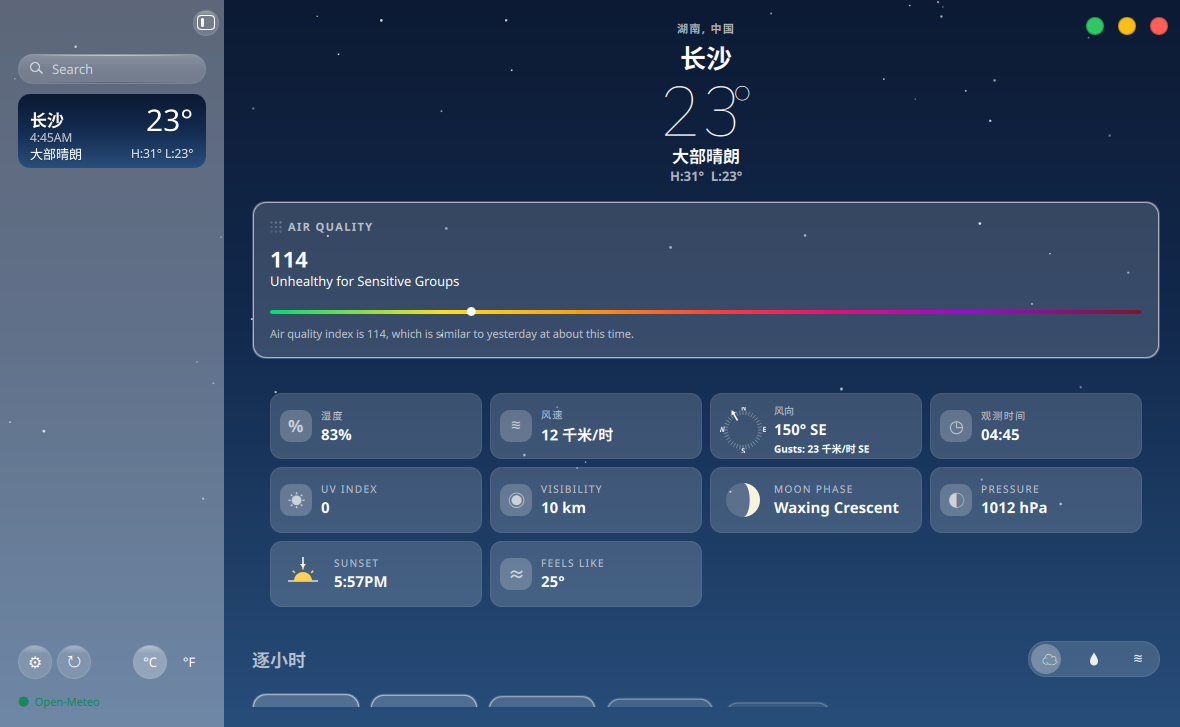
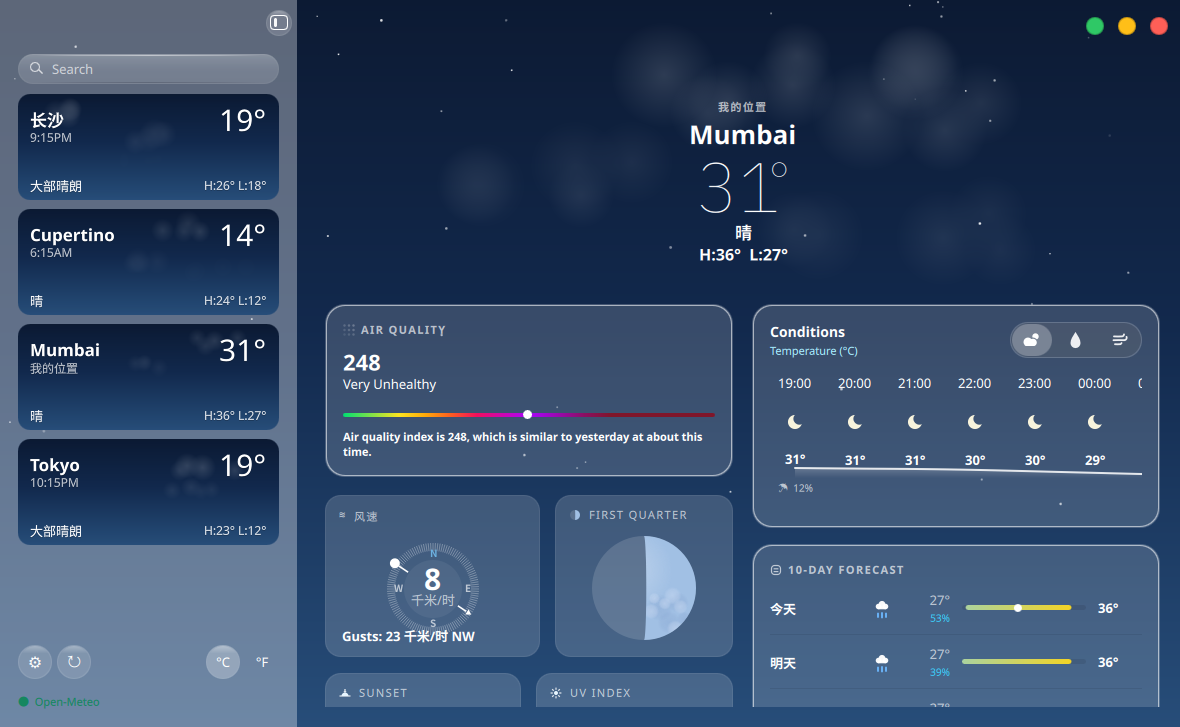
docs: round 66 进度与截图

diff --git a/docs/ui-weather/LEDGER.md b/docs/ui-weather/LEDGER.md
@@ -4,6 +4,9 @@
 参考实测色（814×498 主图采样）：天空 `#2961a7→#1469bc→#538ec9`（上→下，含云照片）；Conditions 卡 `#0057b2`；hero 文本 `#ffffff`；10天条渐变 青→黄→橙。
 
 ## 已改
+- **侧栏城市卡高/缝随侧栏 297 校准重算：74/6 → 106/9（本轮，前端，零 Go/C++/shared 改动，巡检轮新发现）**：卡高 74/缝 6 早年按 tile-sidebar ÷2.1 口径折算（当时侧栏宽 209）；上一轮侧栏校准 297 后卡高未跟改——本轮 Pillow 直测 ref-main 侧栏卡 pitch 81px@814（卡顶 y=81/162/243/324/405，亮卡跳变沿）、卡高 ~75、缝 ~6，×1.4503 → 卡高 ~109/缝 ~8.7。`apps/weather/qml/Main.qml:1138` delegate `implicitHeight: 74→106`、`:1116` savedLocations `spacing: 6→9`（两处注释标明实测依据；卡内布局 top 行+副行+bottom 锚定行，加高自然呼吸、零内部改动，字号 17/30 系既有 ref-main 口径不动）。
+  **实测**（本轮二进制截图 tmp/shots/verify-1792331216.png 过体检闸 ✅ 1180×727，dev env `KOS_DATA_SOCKET=/tmp/kos-weather-dev.sock` + `XDG_STATE_HOME=/tmp/kos-weather-test-state` + `KOS_SCREENSHOT_DELAY_MS=2500`）：卡顶 y=94/209/324/439 → **pitch 115**（目标 ~117.5，残差 ~2.5px 取整所致）；4 卡四行无重叠无裁切、选中卡副行"我的位置"在场、云纹理/渐变随卡高拉伸正常、底部 ⚙/↻/°C/°F 栏不受影响。
+  **测试**：Qt `Totals: 6 passed, 0 failed, 0 skipped`；go test ok。静态几何无动效改动，无帧差义务。
 - **侧栏宽度首次校准：224 → 297（本轮，前端，零 Go/C++/shared 改动，巡检轮新发现）**：ref-main 侧栏右缘多点实测 x205（y=60/120/250/300 一致，sidebar bg (149,161,184) vs 主区 (93,122,166) 描边清晰）× 窗比 1180/814 ≈ **297px**——LEDGER 此前从未校准过侧栏宽度（grep 无记载），我方沿用 shared `AppTheme.sidebarWidth` 224（占比 19.0% vs ref 25.2%，本轮最大未校准残差）。`apps/weather/qml/Main.qml:19` 新增 `readonly property int weatherSidebarWidth: Math.round(297 * AppTheme.densityScale)`（shared 值 music 引用不动，weather 内 weather 局部覆盖）；三处非 compact 用点换用：`:565` clearSkyCloudLayer.cloudLeft、`:717` nightClearCloudLayer.cloudLeft、`:978` KosSidebar.expandedWidth（`AppTheme.compactSidebarWidth` 196 保持，窄窗/收起不受影响）。
   **实测**（本轮二进制截图 tmp/shots/sbwidth-1792330584.png 过体检闸 ✅ 1180×727，dev env `XDG_STATE_HOME=/tmp/kos-weather-test-state` + `KOS_DATA_SOCKET=/tmp/kos-weather-dev.sock` + `KOS_SCREENSHOT_DELAY_MS=2500`）：侧栏右缘 x297 精确（y=500/700 双行描边一致）、占比 25.2% vs ref 25.2% 命中；卡片/搜索胶囊 fillWidth 自适应无裁切、AQ 描述随窄内容区换 2 行正常、hero/两列 masonry/10 天条无破绽。
   **测试**：Qt `Totals: 6 passed, 0 failed`（env -u KOS_DATA_SOCKET）、go test ok。静态几何无动效改动，无帧差义务。
@@ -394,8 +397,9 @@
 - `shared/qml/foundation/KosApplicationWindow.qml:20`：按用户裁定，`windowCornerRadius` 32→8。注意这是共享组件，其他 modernDesign 应用窗口圆角同步变为 8px。
 
 ## 仍差（按视觉冲击排序）
+0f. **侧栏卡圆角仍是 ÷2.1 旧口径的 12**（本轮卡高/缝同族残差，下一轮首选）：tile 实测角曲线跨度 ~22px@tile，÷2.1 → 12（Main.qml:1149 radius: 12）；按侧栏 297 校准后的正确换算 22 × (1180/1628≈0.725) ≈ **15-16**。与卡高残差同根（tile-sidebar 系数误用），本轮时间闸未做。
 0d. ~~**侧栏选中卡副行：参考首卡（选中=My Location 城）副行是 "My Location"，我方首卡仍显示当地时间**~~（**已做**，见已改"侧栏选中卡副行 My Location"——选中卡显示"我的位置"，未选卡维持当地时间，截图 1792322080 实测逐项一致）。
-6. ~~侧栏只有 1 个城市时卡下方大片空白（参考有多城填满）；无数据可解，仅记录~~（**多城已实拍验证收口数据侧**，2026-10-18 多城轮：dev state 加 Cupertino/Mumbai/Tokyo 三城 + 强制刷新取到 summary，截图 1792321838 实拍 4 城卡正确渲染——各城当地时区时间（4:00AM/4:30PM/8:00PM）、温度、H·L、Mumbai 昼卡云纹理、选中卡在顶，均正确；卡区 y95-410 填满后下方空白随城数收缩，系数据量问题非 bug。生产单城空白维持"仅记录"）。**巡检 1792326653 另证（防未来轮重复排查）**：dev state 现仅剩长沙且其 summary 缺失，侧栏选中卡温度显示 "—"、月相卡空圆、UV 卡 "—" 均系 dev 快照缺字段/陈旧（数据侧空态），非渲染缺陷，勿立轮。
+6. ~~侧栏只有 1 个城市时卡下方大片空白（参考有多城填满）；无数据可解，仅记录~~（**多城已实拍验证收口数据侧**，2026-10-18 多城轮：dev state 加 Cupertino/Mumbai/Tokyo 三城 + 强制刷新取到 summary，截图 1792321838 实拍 4 城卡正确渲染——各城当地时区时间（4:00AM/4:30PM/8:00PM）、温度、H·L、Mumbai 昼卡云纹理、选中卡在顶，均正确；卡区 y95-410 填满后下方空白随城数收缩，系数据量问题非 bug。生产单城空白维持"仅记录"）。**巡检 1792326653 另证（防未来轮重复排查）**：dev state 现仅剩长沙且其 summary 缺失，侧栏选中卡温度显示 "—"、月相卡空圆、UV 卡 "—" 均系 dev 快照缺字段/陈旧（数据侧空态），非渲染缺陷，勿立轮。**勘误（2026-10-18 巡检轮推翻）**："dev state 退化"系误诊——该轮截图漏带 dev env（`KOS_DATA_SOCKET=/tmp/kos-weather-dev.sock` + `XDG_STATE_HOME=/tmp/kos-weather-test-state`），连到了**系统**快照（`~/.local/state`，单长沙无新字段）；dev state 实际健康（4 城 + moonPhase/uvIndex 全在，fetchedAt 新鲜）。**以后截图一律带全套 dev env**（见已改首条实测注），否则数据残缺会误判为渲染缺陷。
 0e. ~~**内容区顶部节奏整体偏紧**~~（**已做**，见已改"0e 双 knob"——hero 顶改比例式 `14.9%×flick高−24`，实测 label ink 顶 y104=14.3% vs 目标 ~108px（残差 ~4px 系 flick 高/整窗口径差，不再调）；H·L ink 底→AQ 卡顶 **46px** vs 目标 44 ✓。compact 窄窗下比例式会自动缩小 topMargin，形态待未来窄窗轮顺带复测）。
 0c. ~~**dailyCard（10 天卡）间歇性不渲染**~~（**已收口，见已改首条——根因是 `--screenshot` 固定 650ms 抓帧与 socket 异步数据到达的竞态，非布局 bug**；探针实证 dailyCard 代码健康（colImpl 0→401 异步、impl 437=row 值+padding 36、row/col 1/1 正确），padding 两行被探针实验排除嫌疑。**以后轮验证截图一律加 `KOS_SCREENSHOT_DELAY_MS=2500`**，遇"卡缺失"帧先加延迟重拍再怀疑布局）。
 0. **主区版式：参考是双列卡片 masonry（步 a+c 已完成，步 b 第一半=结构迁入已完成，见已改）**：ref-main（814×498）实测内容区两列——左列 AQ 卡（半宽）+ WIND/MOON PHASE 大方卡并排 + SUNSET/UV INDEX 并排，右列 Conditions 卡（含逐小时）+ 10 天卡。**步 a 已完成**（AQ+Conditions 并排两列等宽、顶对齐、列缝 ~19px）；**步 c 已完成**（10 天卡入右列）；**步 b 第一半已完成**（瓦片区入左列 AQ 下方 2 列、AQ→瓦顶 20px 精确、86px 天窗消除，见已改）。**步 b 第二半进行中（瓦片形态改参考大方卡）：WIND 卡已完成**（见已改——罗盘居中+速度环心+Gusts 底行，卡高 162 精确、数字字形 21px vs 目标 22）；**月相卡已完成**（见已改——头部相位名 caps+中央大月亮 d104，162px 高，WIND/月相对半并排 234/19/190 实测 vs 目标 235/15/193，缝 +4px 残差）；**SUNSET 卡已完成**（见已改首条——头部 glyph+SUNSET caps+左对齐大号时间 30px，162px 高、全宽跨 2 列中间态，缝 17px 精确、墨顶 +44 精确）。**UV 大方卡已完成**（见已改首条——SUNSET/UV RowLayout 等分 214/15/214，实测 213/17/213 等宽，大数字 30px ink 21px 与 SUNSET 同高；旧 66px UV 瓦删除）。**步 b 第二半至此收口：四张参考大方卡（WIND/月相/SUNSET/UV）全部成形**。剩余：湿度/观测时间/FEELS LIKE/PRESSURE/VISIBILITY 参考无对应卡，按 Apple 惯例落位——**折叠线下回流已实拍复核收口（见已改首条）**：VISIBILITY/PRESSURE 成对、FEELS LIKE 独占一格（右侧空格是否拉满待裁定）；compact 单列顺序变化（现 WIND+月相→SUNSET+UV 对半→湿度/观测时间→VISIBILITY/PRESSURE→FEELS LIKE→Conditions→10 天）**已实拍复核收口**（见已改首条——760 窄窗两 probe 实拍逐项一致、无重叠无裁切）；空态半宽**已实拍复核收口**（见已改"空态文字可读性修复"条——半宽居中渲染健康，顺带修掉标题近黑不可读缺陷）。残差：a) ~~Conditions 半宽下逐小时可见 ~3.5 列 vs ref 半宽 6 列~~（**已做**，见已改"逐小时列密度校准"——列距 60px 精确、可见 7 列）。
